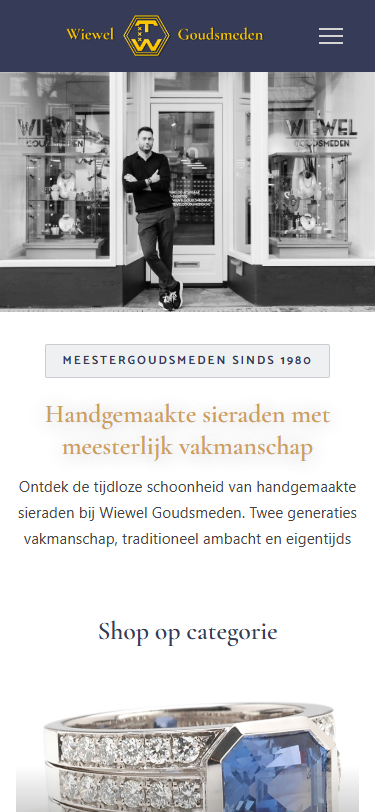
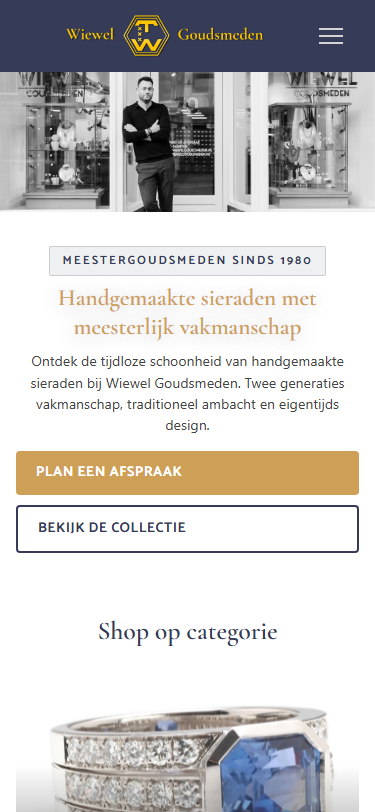
Fix mobile hero layout: CTAs visible on first screen
Reduced image panel height (35vw/140-220px), badge/h1/sub font sizes,
and padding throughout hero section so both CTA buttons are visible
within 375x812 mobile viewport without scrolling.

diff --git a/assets/style.css b/assets/style.css
@@ -1668,7 +1668,7 @@ body { padding-top: 72px; }
   }
   .hero__text-panel {
     background: #fff;
-    padding: 32px 24px 36px;
+    padding: 20px 24px 24px;
     order: 2;
   }
   .hero--split .hero__content {
@@ -1676,32 +1676,42 @@ body { padding-top: 72px; }
     margin: 0;
     text-align: center;
   }
-  .hero--split .hero__content h1 {
-    color: #cea057;
-    font-size: 1.6rem;
-    margin-bottom: 12px;
-  }
-  .hero--split .hero__content .hero__sub {
-    color: #444;
-    font-size: 0.95rem;
-    margin-bottom: 20px;
-  }
   .hero--split .hero__content .hero__badge {
     color: #363c57;
     background: rgba(54,60,87,0.08);
     border-color: rgba(54,60,87,0.2);
+    margin-bottom: 8px;
+    font-size: 0.75rem;
+    padding: 4px 12px;
+  }
+  .hero--split .hero__content h1 {
+    color: #cea057;
+    font-size: 1.45rem;
+    margin-bottom: 8px;
+    line-height: 1.25;
+  }
+  .hero--split .hero__content .hero__sub {
+    color: #444;
+    font-size: 0.88rem;
+    margin-bottom: 16px;
+    line-height: 1.5;
   }
   .hero--split .hero__ctas {
     justify-content: center;
+    gap: 10px;
+  }
+  .hero--split .hero__ctas .btn {
+    padding: 10px 20px;
+    font-size: 0.88rem;
   }
   .hero--split .hero__ctas .btn--outline {
     color: #363c57;
     border-color: #363c57;
   }
   .hero__image-panel {
-    height: 55vw;
-    min-height: 240px;
-    max-height: 400px;
+    height: 35vw;
+    min-height: 140px;
+    max-height: 220px;
     order: 1;
   }
   .trust-bar { display: none; }
